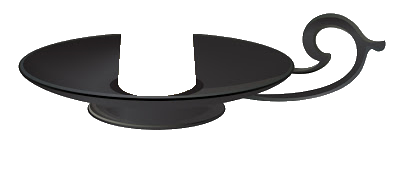
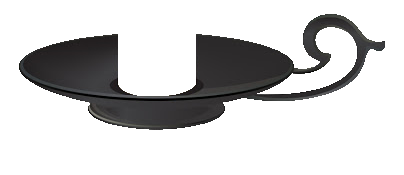
Updated instructions and cleaned up candle holder edges.

diff --git a/candle.html b/candle.html
@@ -127,7 +127,7 @@
       <img id="holder" src="candleholder.png" />
     </div>
     <div id="footer">
-      Conduct candle by Stuart Weenig. &copy;2020 All Rights Reserved
+      Conduct candle by Stuart Weenig. &copy;2020 All Rights Reserved. <a href="https://github.com/sweenig/aol/blob/master/README.md" target="_blank">Instructions can be found here</a>.
     </div>
   </body>
 </html>
